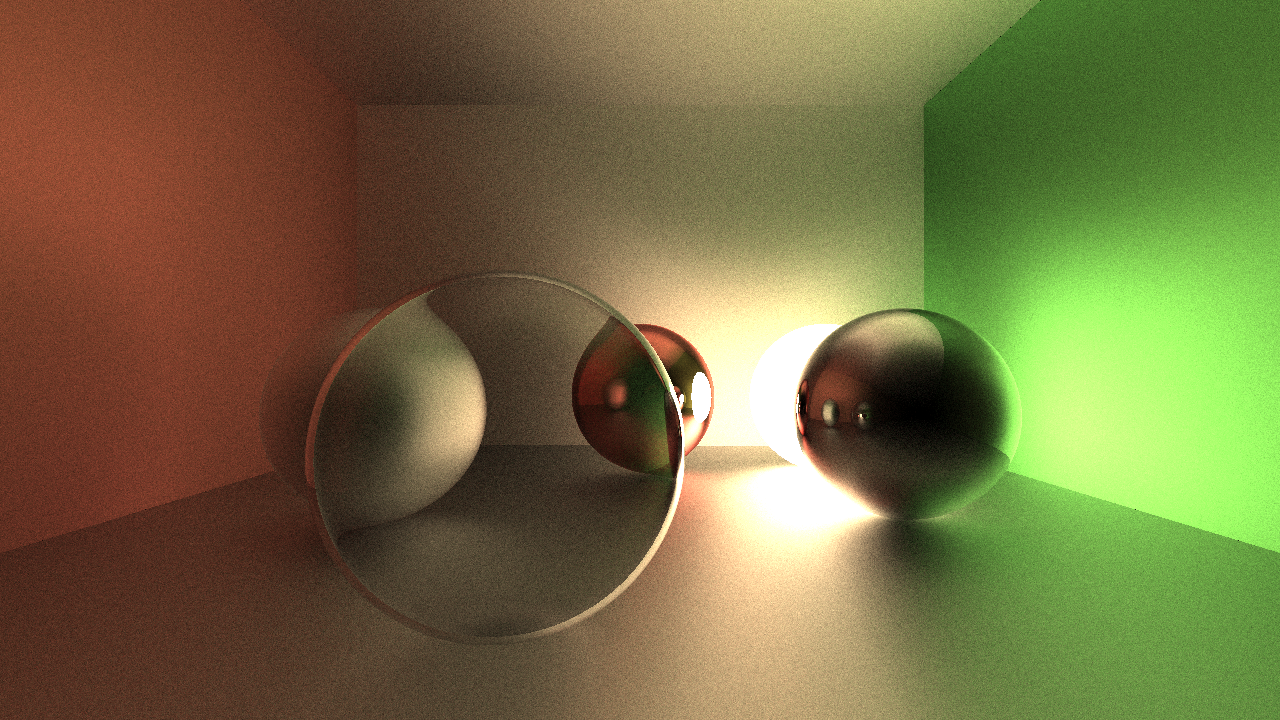
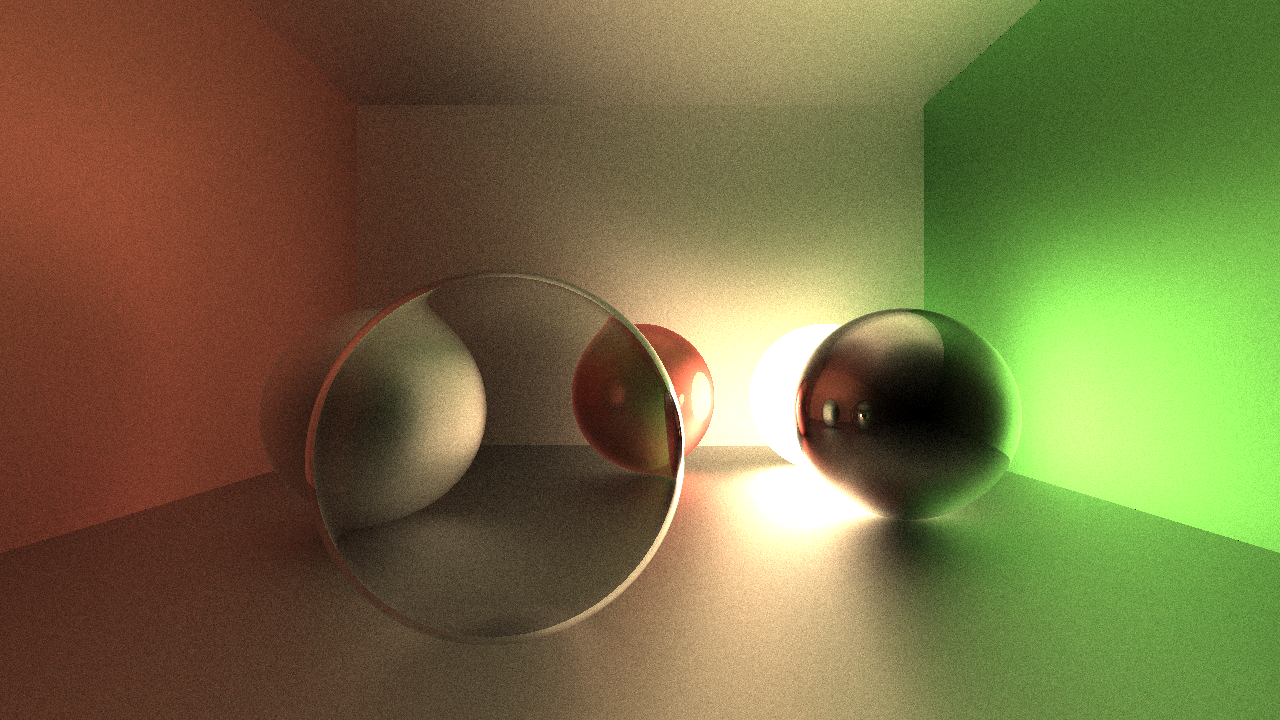
rt: added material maps rt: fixed dielectric

diff --git a/src/rt.rs b/src/rt.rs
@@ -77,7 +77,13 @@ pub struct Material {
     pub glass: f32,
     pub opacity: f32,
     pub emit: f32,
+
     pub tex: Option<Texture>,
+    pub rmap: Option<Texture>, // rough map
+    pub mmap: Option<Texture>, // metal map
+    pub gmap: Option<Texture>, // glass map
+    pub omap: Option<Texture>, // opacity map
+    pub emap: Option<Texture>, // emit map
 }
 
 #[derive(Serialize, Deserialize, Debug, Clone)]
@@ -142,16 +148,32 @@ impl Ray {
     }
 
     pub fn reflect(&self, rt: &RayTracer, hit: &RayHit) -> Ray {
-        let norm = (hit.norm.0 + Vec3f::rand(hit.obj.mat.rough)).norm();
+        let mut rough = hit.obj.get_rough((&hit.ray.0).into());
+        let opacity = hit.obj.get_opacity((&hit.ray.0).into());
+
+        // 75% chance to diffuse for dielectric
+        if hit.obj.mat.metal == 0.0 && opacity != 0.0 && rand::thread_rng().gen_bool((1.0 - rough).min(0.75).into()) {
+            rough = 1.0;
+        }
+
+        let norm = (hit.norm.0 + Vec3f::rand(rough)).norm();
         let dir = self.dir.reflect(norm).norm();
 
         Ray::cast(self.into(), dir, self.pwr * (1.0 - rt.loss.min(1.0)), self.bounce + 1)
     }
 
     pub fn refract(&self, rt:&RayTracer, hit: &RayHit) -> Option<Ray> {
-        let norm = (hit.norm.1 + Vec3f::rand(hit.obj.mat.rough)).norm();
+        let mut rough = hit.obj.get_rough((&hit.ray.0).into());
+        let opacity = hit.obj.get_opacity((&hit.ray.0).into());
 
-        let eta = 1.0 + hit.obj.mat.glass / 2.0;
+        // 75% chance to diffuse for dielectric
+        if hit.obj.mat.metal == 0.0 && opacity != 0.0 && rand::thread_rng().gen_bool((1.0 - rough).min(0.75).into()) {
+            rough = 1.0;
+        }
+
+        let norm = (hit.norm.1 + Vec3f::rand(rough)).norm();
+
+        let eta = 1.0 + hit.obj.get_glass((&hit.ray.0).into()) / 2.0;
         let dir = self.dir.refract(eta, norm)?.norm();
 
         Some(Ray::cast(self.into(), dir, self.pwr * (1.0 - rt.loss.min(1.0)), self.bounce + 1))
@@ -420,6 +442,41 @@ impl Renderer {
         }
         self.mat.albedo
     }
+
+    pub fn get_rough(&self, v: Vec3f) -> f32 {
+        if let Some(tex) = &self.mat.rmap {
+            return tex.get_color(self.to_uv(v)).x
+        }
+        self.mat.rough
+    }
+
+    pub fn get_metal(&self, v: Vec3f) -> f32 {
+        if let Some(tex) = &self.mat.mmap {
+            return tex.get_color(self.to_uv(v)).x;
+        }
+        self.mat.metal
+    }
+
+    pub fn get_glass(&self, v: Vec3f) -> f32 {
+        if let Some(tex) = &self.mat.gmap {
+            return tex.get_color(self.to_uv(v)).x;
+        }
+        self.mat.glass
+    }
+
+    pub fn get_opacity(&self, v: Vec3f) -> f32 {
+        if let Some(tex) = &self.mat.omap {
+            return tex.get_color(self.to_uv(v)).x;
+        }
+        self.mat.opacity
+    }
+
+    pub fn get_emit(&self, v: Vec3f) -> f32 {
+        if let Some(tex) = &self.mat.emap {
+            return tex.get_color(self.to_uv(v)).x;
+        }
+        self.mat.emit
+    }
 }
 
 impl RayTracer {
@@ -476,9 +533,9 @@ impl RayTracer {
             }
 
             let diff = (l.norm() * hit.norm.0).max(0.0);
-            let spec = (hit.ray.0.dir * l.norm().reflect(hit.norm.0)).max(0.0).powi(32) * (1.0 - hit.obj.mat.rough);
+            let spec = (hit.ray.0.dir * l.norm().reflect(hit.norm.0)).max(0.0).powi(32) * (1.0 - hit.obj.get_rough((&hit.ray.0).into()));
 
-            let o_col = hit.obj.get_color((&hit.ray.0).into()) * (1.0 - hit.obj.mat.metal);
+            let o_col = hit.obj.get_color((&hit.ray.0).into()) * (1.0 - hit.obj.get_metal((&hit.ray.0).into()));
 
             // col += ((o_col * diff).hadam(light.color) + spec) * light.pwr / (l.mag().powi(2));
             col += ((o_col * diff).hadam(light.color) + spec) * light.pwr;
@@ -489,16 +546,19 @@ impl RayTracer {
 
     pub fn pathtrace_indirect_light(&self, scene: &Scene, hit: &RayHit) -> Vec3f {
         let mut next_ray = hit.ray.0.reflect(self, hit);
+        let opacity = hit.obj.get_opacity((&hit.ray.0).into());
 
         // 15% chance to reflect for transparent material
-        if rand::thread_rng().gen_bool((1.0 - hit.obj.mat.opacity).min(0.85).into()) {
+        if rand::thread_rng().gen_bool((1.0 - opacity).min(0.85).into()) {
             if let Some(r) = hit.ray.1.refract(self, hit) {
                 next_ray = r;
             }
         }
 
         let next_col = self.pathtrace(scene, &mut next_ray);
-        let col = next_col / 2.0 + hit.obj.get_color((&hit.ray.0).into()).hadam(next_col);
+        let curr_col = hit.obj.get_color((&hit.ray.0).into());
+
+        let col = 0.5 * next_col + curr_col.hadam(next_col);
 
         col * next_ray.pwr
     }
@@ -512,7 +572,9 @@ impl RayTracer {
         // intersect
         if let Some(hit) = RayTracer::closest_hit(scene, ray) {
             // emit
-            if rand::thread_rng().gen_bool(hit.obj.mat.emit.into()) {
+            let emit = hit.obj.get_emit((&hit.ray.0).into());
+
+            if rand::thread_rng().gen_bool(emit.into()) {
                 return hit.obj.get_color((&hit.ray.0).into());
             }
 
@@ -600,7 +662,12 @@ impl Default for Material {
             glass: 0.0,
             opacity: 1.0,
             emit: 0.0,
-            tex: None
+            tex: None,
+            rmap: None,
+            mmap: None,
+            gmap: None,
+            omap: None,
+            emap: None
         }
     }
 }
@@ -765,7 +832,52 @@ impl From<Vec<String>> for Renderer {
                     } else {
                         Some(Texture::InlineBase64(s))
                     }
-                }, 
+                },
+                "rmap:" => {
+                    let s = String::from(it.next().unwrap());
+
+                    obj.mat.rmap = if s.contains(".") {
+                        Some(Texture::File(s))
+                    } else {
+                        Some(Texture::InlineBase64(s))
+                    }
+                },
+                "mmap:" => {
+                    let s = String::from(it.next().unwrap());
+
+                    obj.mat.mmap = if s.contains(".") {
+                        Some(Texture::File(s))
+                    } else {
+                        Some(Texture::InlineBase64(s))
+                    }
+                },
+                "gmap:" => {
+                    let s = String::from(it.next().unwrap());
+
+                    obj.mat.gmap = if s.contains(".") {
+                        Some(Texture::File(s))
+                    } else {
+                        Some(Texture::InlineBase64(s))
+                    }
+                },
+                "omap:" => {
+                    let s = String::from(it.next().unwrap());
+
+                    obj.mat.omap = if s.contains(".") {
+                        Some(Texture::File(s))
+                    } else {
+                        Some(Texture::InlineBase64(s))
+                    }
+                },
+                "emap:" => {
+                    let s = String::from(it.next().unwrap());
+
+                    obj.mat.emap = if s.contains(".") {
+                        Some(Texture::File(s))
+                    } else {
+                        Some(Texture::InlineBase64(s))
+                    }
+                },
                 _ => {
                     if !is_type_param {
                         panic!("`{}` param for `{}` is unxpected!", param, t);

diff --git a/src/bin/raytrace.rs b/src/bin/raytrace.rs
@@ -57,7 +57,7 @@ struct CLI {
     #[arg(long, value_names = ["pos: <f32 f32 f32>", "dir: <f32 f32 f32 f32>", "fov: <f32>", "gamma: <f32>", "exp: <f32>"], num_args = 1..,  allow_negative_numbers = true, next_line_help = true, help = "Add camera to the scene")]
     cam: Option<Vec<String>>,
 
-    #[arg(long, value_names = ["<type: sphere(sph)|plane(pln)|box>", "param: <sphere: r: <f32>>|<plane: n: <f32 f32 f32>>|<box: size: <f32 f32 f32>>", "pos: <f32 f32 f32>", "dir: <f32 f32 f32 f32>", "albedo: <f32 f32 f32>", "rough: <f32>", "metal: <f32>", "glass: <f32>", "opacity: <f32>", "emit: <f32>", "tex: <FILE.ext|<base64 str>>"], num_args = 0.., action = clap::ArgAction::Append, allow_negative_numbers = true, next_line_help = true, help = "Add renderer to the scene")]
+    #[arg(long, value_names = ["<type: sphere(sph)|plane(pln)|box>", "param: <sphere: r: <f32>>|<plane: n: <f32 f32 f32>>|<box: size: <f32 f32 f32>>", "pos: <f32 f32 f32>", "dir: <f32 f32 f32 f32>", "albedo: <f32 f32 f32>", "rough: <f32>", "metal: <f32>", "glass: <f32>", "opacity: <f32>", "emit: <f32>", "tex: <FILE.ext|<base64 str>>", "rmap: <FILE.ext|<base64 str>>", "mmap: <FILE.ext|<base64 str>>", "gmap: <FILE.ext|<base64 str>>", "omap: <FILE.ext|<base64 str>>", "emap: <FILE.ext|<base64 str>>"], num_args = 0.., action = clap::ArgAction::Append, allow_negative_numbers = true, next_line_help = true, help = "Add renderer to the scene")]
     obj: Option<Vec<String>>,
 
     #[arg(long, value_names = ["param: <point(pt): <f32 f32 f32>>|<dir: <f32 f32 f32>>", "pwr: <f32>", "col: <f32 f32 f32>"], num_args = 0.., action = clap::ArgAction::Append, allow_negative_numbers = true, next_line_help = true, help = "Add light source to the scene")]
@@ -164,6 +164,21 @@ fn main() {
         for obj in objs {
             if let Some(tex) = &mut obj.mat.tex {
                 tex.to_buffer();
+            }
+            if let Some(rmap) = &mut obj.mat.rmap {
+                rmap.to_buffer();
+            }
+            if let Some(mmap) = &mut obj.mat.mmap {
+                mmap.to_buffer();
+            }
+            if let Some(gmap) = &mut obj.mat.gmap {
+                gmap.to_buffer();
+            }
+            if let Some(omap) = &mut obj.mat.omap {
+                omap.to_buffer();
+            }
+            if let Some(emap) = &mut obj.mat.emap {
+                emap.to_buffer();
             }
         }
     }

diff --git a/src/lin.rs b/src/lin.rs
@@ -281,6 +281,13 @@ impl std::ops::Mul<f32> for Vec3f {
     }
 }
 
+impl std::ops::Mul<Vec3f> for f32 {
+    type Output = Vec3f;
+    fn mul(self, rhs: Vec3f) -> Self::Output {
+        rhs * self
+    }
+}
+
 impl std::ops::Mul<f32> for Vec4f {
     type Output = Vec4f;
     fn mul(self, rhs: f32) -> Self::Output {

diff --git a/README.md b/README.md
@@ -70,7 +70,7 @@ Options:
           Output image SSAAx antialiasing
       --cam <pos: <f32 f32 f32>> <dir: <f32 f32 f32 f32>> <fov: <f32>> <gamma: <f32>> <exp: <f32>>...
           Add camera to the scene
-      --obj [<<type: sphere(sph)|plane(pln)|box>> <param: <sphere: r: <f32>>|<plane: n: <f32 f32 f32>>|<box: size: <f32 f32 f32>>> <pos: <f32 f32 f32>> <dir: <f32 f32 f32 f32>> <albedo: <f32 f32 f32>> <rough: <f32>> <metal: <f32>> <glass: <f32>> <opacity: <f32>> <emit: <f32>> <tex: <FILE.ext|<base64 str>>>...]
+      --obj [<<type: sphere(sph)|plane(pln)|box>> <param: <sphere: r: <f32>>|<plane: n: <f32 f32 f32>>|<box: size: <f32 f32 f32>>> <pos: <f32 f32 f32>> <dir: <f32 f32 f32 f32>> <albedo: <f32 f32 f32>> <rough: <f32>> <metal: <f32>> <glass: <f32>> <opacity: <f32>> <emit: <f32>> <tex: <FILE.ext|<base64 str>>> <rmap: <FILE.ext|<base64 str>>>...]
           Add renderer to the scene
       --light [<param: <point(pt): <f32 f32 f32>>|<dir: <f32 f32 f32>>> <pwr: <f32>> <col: <f32 f32 f32>>...]
           Add light source to the scene
